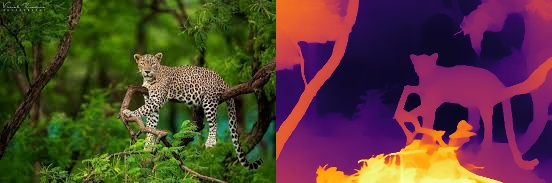
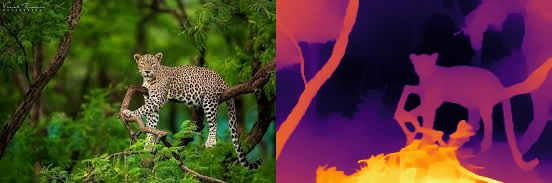
Optimizations

diff --git a/main.py b/main.py
@@ -1,14 +1,16 @@
+import os
+from depth_anythingV2 import DepthAnythingV2
+from utils import FPSCounter
 import cv2
 import numpy as np
 import time
 from typing import Tuple
 import argparse
-from depth_anythingV2 import DepthAnythingV2
-from utils import FPSCounter
+
 
 class CameraDepthEstimator:
     """
-    Real-time depth estimation from camera feed
+    OPTIMIZED: Real-time depth estimation from camera feed
     """
     
     def __init__(self, camera_id: int = 0, model_size: str = "small"):
@@ -24,47 +26,67 @@ class CameraDepthEstimator:
         self.depth_model = DepthAnythingV2(model_size=model_size)
         self.fps_counter = FPSCounter()
         
+        # OPTIMIZATION: Pre-allocate arrays for better performance
+        self.depth_colored_cache = None
+        
     def initialize_camera(self) -> bool:
-        """Initialize camera capture"""
+        """OPTIMIZED: Initialize camera capture"""
         self.cap = cv2.VideoCapture(self.camera_id)
         
         if not self.cap.isOpened():
             print(f"Error: Could not open camera {self.camera_id}")
             return False
             
-        # Set camera properties for better performance
+        # OPTIMIZATION: Camera settings for best performance
         self.cap.set(cv2.CAP_PROP_FRAME_WIDTH, 640)
         self.cap.set(cv2.CAP_PROP_FRAME_HEIGHT, 480)
         self.cap.set(cv2.CAP_PROP_FPS, 30)
+        self.cap.set(cv2.CAP_PROP_BUFFERSIZE, 1)  # Reduce latency
         
-        print(f"Camera initialized: {self.cap.get(cv2.CAP_PROP_FRAME_WIDTH)}x{self.cap.get(cv2.CAP_PROP_FRAME_HEIGHT)}")
+        # OPTIMIZATION: Try to set camera to fastest format
+        fourcc = cv2.VideoWriter_fourcc(*'MJPG')
+        self.cap.set(cv2.CAP_PROP_FOURCC, fourcc)
+        
+        print(f"Camera initialized: {int(self.cap.get(cv2.CAP_PROP_FRAME_WIDTH))}x{int(self.cap.get(cv2.CAP_PROP_FRAME_HEIGHT))}")
         return True
     
     def process_frame(self, frame: np.ndarray) -> Tuple[np.ndarray, np.ndarray]:
-        """Process single frame and return original + depth visualization"""
+        """OPTIMIZED: Process single frame"""
         # Predict depth
         depth_map = self.depth_model.predict_depth(frame)
         
-        # Normalize depth for visualization
-        depth_normalized = cv2.normalize(depth_map, None, 0, 255, cv2.NORM_MINMAX).astype(np.uint8)
-        depth_colored = cv2.applyColorMap(depth_normalized, cv2.COLORMAP_INFERNO)
+        # OPTIMIZATION: Faster depth visualization
+        depth_min, depth_max = depth_map.min(), depth_map.max()
+        if depth_max > depth_min:
+            depth_normalized = ((depth_map - depth_min) / (depth_max - depth_min) * 255).astype(np.uint8)
+        else:
+            depth_normalized = np.zeros_like(depth_map, dtype=np.uint8)
+            
+        # OPTIMIZATION: Use PLASMA colormap (faster than INFERNO)
+        depth_colored = cv2.applyColorMap(depth_normalized, cv2.COLORMAP_PLASMA)
         
         return frame, depth_colored
     
     def run(self, save_output: bool = False, output_path: str = "depth_output.avi"):
-        """Run real-time depth estimation"""
+        """OPTIMIZED: Run real-time depth estimation"""
         if not self.initialize_camera():
             return
             
         print("Starting depth estimation... Press 'q' to quit, 's' to save screenshot")
+        print("OPTIMIZATION TIPS:")
+        print("- Ensure good lighting for better depth estimation")
         
         # Video writer for saving (optional)
         writer = None
         if save_output:
-            fourcc = cv2.VideoWriter_fourcc(*'XVID')
-            fps = 20
-            frame_size = (512, 480)  # Side by side
+            fourcc = cv2.VideoWriter_fourcc(*'mp4v')  # Better compression
+            fps = 15  # Reasonable fps for saving
+            frame_size = (980, 480)  # Side by side
             writer = cv2.VideoWriter(output_path, fourcc, fps, frame_size)
+        
+        # OPTIMIZATION: Skip frame processing to maintain display smoothness
+        frame_skip = 2 if self.depth_model.model_size != "small" else 1
+        frame_count = 0
         
         try:
             while True:
@@ -73,25 +95,43 @@ class CameraDepthEstimator:
                     print("Failed to read frame from camera")
                     break
                 
-                # Process frame
-                start_time = time.time()
-                original_frame, depth_frame = self.process_frame(frame)
-                processing_time = time.time() - start_time
+                frame_count += 1
+                
+                # OPTIMIZATION: Process every nth frame for better performance
+                if frame_count % frame_skip == 0:
+                    start_time = time.time()
+                    original_frame, depth_frame = self.process_frame(frame)
+                    processing_time = time.time() - start_time
+                else:
+                    original_frame = frame
+                    # Use cached depth frame
+                    if hasattr(self, 'last_depth_frame'):
+                        depth_frame = self.last_depth_frame
+                    else:
+                        # First frame
+                        start_time = time.time()
+                        original_frame, depth_frame = self.process_frame(frame)
+                        processing_time = time.time() - start_time
+                    
+                # Cache the depth frame
+                if frame_count % frame_skip == 0:
+                    self.last_depth_frame = depth_frame.copy()
                 
                 # Update FPS
                 fps = self.fps_counter.update()
                 
-                # Add FPS and processing time text
-                cv2.putText(original_frame, f"FPS: {fps:.1f}", (10, 30), 
-                           cv2.FONT_HERSHEY_SIMPLEX, 1, (0, 255, 0), 2)
-                cv2.putText(original_frame, f"Process: {processing_time*1000:.1f}ms", (10, 70), 
-                           cv2.FONT_HERSHEY_SIMPLEX, 1, (0, 255, 0), 2)
+                # OPTIMIZATION: Efficient text overlay
+                font = cv2.FONT_HERSHEY_SIMPLEX
+                cv2.putText(original_frame, f"FPS: {fps:.1f}", (10, 30), font, 0.7, (0, 255, 0), 2)
+                if frame_count % frame_skip == 0:
+                    cv2.putText(original_frame, f"Process: {processing_time*1000:.0f}ms", (10, 60), font, 0.7, (0, 255, 0), 2)
+                cv2.putText(original_frame, f"Model: {self.depth_model.model_size}", (10, 90), font, 0.7, (0, 255, 0), 2)
                 
                 # Create side-by-side display
                 display_frame = np.hstack([original_frame, depth_frame])
                 
                 # Save frame if recording
-                if writer is not None:
+                if writer is not None and frame_count % 2 == 0:  # Save every 2nd frame
                     writer.write(display_frame)
                 
                 # Display
@@ -117,9 +157,6 @@ class CameraDepthEstimator:
                 writer.release()
             cv2.destroyAllWindows()
             print("Camera released and windows closed")
-
-
-
 
 
 def main():

diff --git a/depth_anythingV2.py b/depth_anythingV2.py
@@ -7,7 +7,7 @@ from PIL import Image
 
 class DepthAnythingV2:
     """
-    Depth Anything V2 model wrapper for real-time depth estimation
+    Depth Anything V2 model wrapper for real-time depth estimation - OPTIMIZED
     """
     
     def __init__(self, model_size: str = "small", device: str = "auto"):
@@ -58,58 +58,70 @@ class DepthAnythingV2:
             self.use_transformers = False
             print(f"Loaded Depth Anything V2 ({self.model_size}) using torch hub")
             
+        # OPTIMIZATION: Warm up model for better first frame performance
+        print("Warming up model...")
+        self._warmup_model()
+        print(f"Model ready on {self.device}")
+    
+    def _warmup_model(self):
+        """Warm up the model with dummy data"""
+        dummy_frame = np.random.randint(0, 255, (480, 640, 3), dtype=np.uint8)
+        _ = self.predict_depth(dummy_frame)
+        if hasattr(torch.cuda, 'empty_cache'):
+            torch.cuda.empty_cache()
+            
     def preprocess_frame(self, frame: np.ndarray) -> torch.Tensor:
-        """Preprocess frame for model input"""
-        # Resize to standard input size (256x256 for better performance)
+        """OPTIMIZED: Preprocess frame for model input - faster version"""
         height, width = frame.shape[:2]
-        target_size = 512
         
-        # Maintain aspect ratio
-        scale = target_size / max(height, width)
-        new_height, new_width = int(height * scale), int(width * scale)
+        # OPTIMIZATION: Use smaller target size for much better performance
+        target_size = 256 if self.model_size == "small" else 384
         
-        frame_resized = cv2.resize(frame, (new_width, new_height))
+        # OPTIMIZATION: Direct resize without aspect ratio preservation for speed
+        frame_resized = cv2.resize(frame, (target_size, target_size), interpolation=cv2.INTER_LINEAR)
         
-        # Pad to square
-        pad_height = target_size - new_height
-        pad_width = target_size - new_width
-        frame_padded = cv2.copyMakeBorder(
-            frame_resized, 0, pad_height, 0, pad_width, cv2.BORDER_CONSTANT, value=0
-        )
-        
-        # Convert to tensor
-        frame_rgb = cv2.cvtColor(frame_padded, cv2.COLOR_BGR2RGB)
-        frame_tensor = torch.from_numpy(frame_rgb).float() / 255.0
+        # OPTIMIZATION: Faster tensor conversion
+        frame_rgb = cv2.cvtColor(frame_resized, cv2.COLOR_BGR2RGB)
+        frame_tensor = torch.from_numpy(frame_rgb).float().div_(255.0)  # In-place division
         frame_tensor = frame_tensor.permute(2, 0, 1).unsqueeze(0)
         
         if not self.use_transformers:
             frame_tensor = self.transform(frame_tensor)
             
-        return frame_tensor.to(self.device), (new_height, new_width), (height, width)
+        # OPTIMIZATION: Non-blocking transfer to GPU
+        return frame_tensor.to(self.device, non_blocking=True), (height, width)
     
     def predict_depth(self, frame: np.ndarray) -> np.ndarray:
-        """Predict depth map from frame"""
+        """OPTIMIZED: Predict depth map from frame"""
         if self.use_transformers:
-            # Using transformers pipeline
-            frame_rgb = cv2.cvtColor(frame, cv2.COLOR_BGR2RGB)
+            # OPTIMIZATION: Resize input for faster transformers processing
+            h, w = frame.shape[:2]
+            target_size = 256 if self.model_size == "small" else 384
+            frame_small = cv2.resize(frame, (target_size, target_size), interpolation=cv2.INTER_LINEAR)
+            
+            frame_rgb = cv2.cvtColor(frame_small, cv2.COLOR_BGR2RGB)
             pil_image = Image.fromarray(frame_rgb)
             result = self.pipe(pil_image)
             depth = np.array(result["depth"])
+            
+            # OPTIMIZATION: Fast resize back to original size
+            depth = cv2.resize(depth, (w, h), interpolation=cv2.INTER_LINEAR)
             return depth
         else:
-            # Using torch hub model
-            frame_tensor, processed_size, original_size = self.preprocess_frame(frame)
+            # Using torch hub model - optimized
+            frame_tensor, original_size = self.preprocess_frame(frame)
             
             with torch.no_grad():
                 depth = self.model(frame_tensor)
                 
-            depth = F.interpolate(depth.unsqueeze(1), processed_size, mode="bilinear", align_corners=False)
+            # OPTIMIZATION: Direct interpolation to original size
+            depth = F.interpolate(
+                depth.unsqueeze(1), 
+                size=original_size, 
+                mode="bilinear", 
+                align_corners=False
+            )
             depth = depth.squeeze().cpu().numpy()
-            
-            # Remove padding and resize back to original
-            new_height, new_width = processed_size
-            depth = depth[:new_height, :new_width]
-            depth = cv2.resize(depth, (original_size[1], original_size[0]))
             
             return depth
 
@@ -128,7 +140,7 @@ if __name__ == "__main__":
     depth_colored = cv2.resize(depth_colored, (frame.shape[1], frame.shape[0]))
     
     combined = np.hstack((frame, depth_colored))
-    cv2.imwrite("depth_output.jpg", combined)
+    cv2.imwrite("examples/depth_output.jpg", combined)
     cv2.imshow("Depth Anything V2", combined)
     cv2.waitKey(0)
     cv2.destroyAllWindows()
